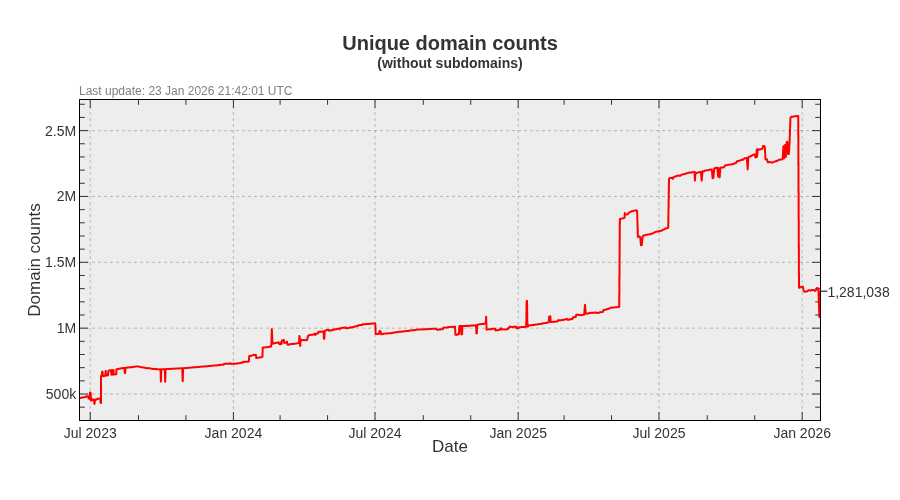
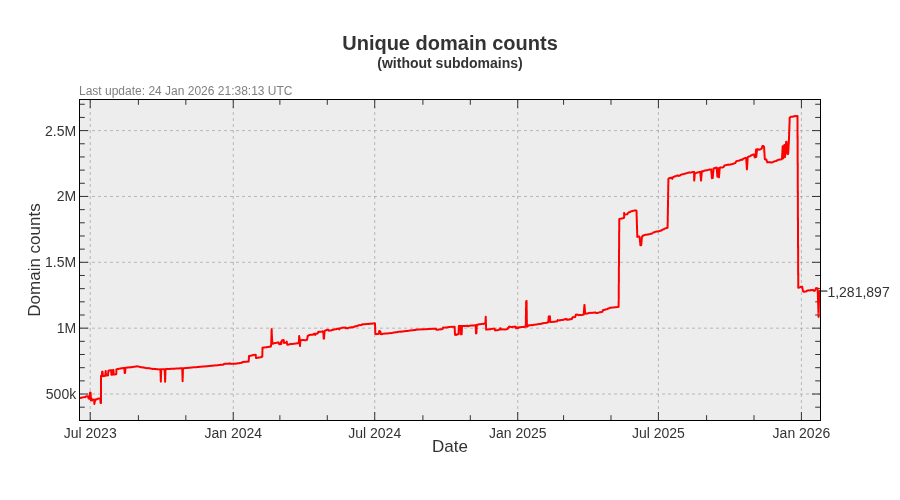
Update pages

diff --git a/README.md b/README.md
@@ -3,22 +3,22 @@ A blocklist file for blocking ads, trackers and malware domains.
 
[1 lines of base64/hex data omitted]
 
-- Unique domains: 1,926,732
-- Without subdomains: 1,281,038
-- Last update: 23 Jan 2026 21:42:01 UTC
-- Version: 2026.01.23.02
+- Unique domains: 1,927,266
+- Without subdomains: 1,281,897
+- Last update: 24 Jan 2026 21:38:13 UTC
+- Version: 2026.01.24.01
 
 
 ### Downloads:
 
 | Format             | Domain count      | Download Link |
 |:------------------ | -----------------:|:-------------:|
-| *Adblock Plus*     | 1,281,038 | [Download](https://dl.cenk.app/bad-hosts/bad-hosts-abp) |
-| *Wildcard domains* | 1,281,038 | [Download](https://dl.cenk.app/bad-hosts/bad-hosts-wildcard) |
-| *dnsmasq*          | 1,281,038 | [Download](https://dl.cenk.app/bad-hosts/bad-hosts-dnsmasq) |
-| *hosts*            | 1,926,732 | [Download](https://dl.cenk.app/bad-hosts/hosts) |
-| *hosts (ipv6)*     | 1,926,732 | [Download](https://dl.cenk.app/bad-hosts/hosts-ipv6) |
-| *Plain domains*    | 1,926,732 | [Download](https://dl.cenk.app/bad-hosts/bad-hosts-domains) |
+| *Adblock Plus*     | 1,281,897 | [Download](https://dl.cenk.app/bad-hosts/bad-hosts-abp) |
+| *Wildcard domains* | 1,281,897 | [Download](https://dl.cenk.app/bad-hosts/bad-hosts-wildcard) |
+| *dnsmasq*          | 1,281,897 | [Download](https://dl.cenk.app/bad-hosts/bad-hosts-dnsmasq) |
+| *hosts*            | 1,927,266 | [Download](https://dl.cenk.app/bad-hosts/hosts) |
+| *hosts (ipv6)*     | 1,927,266 | [Download](https://dl.cenk.app/bad-hosts/hosts-ipv6) |
+| *Plain domains*    | 1,927,266 | [Download](https://dl.cenk.app/bad-hosts/bad-hosts-domains) |
 
 ### Domain count history
 #### With subdomains
